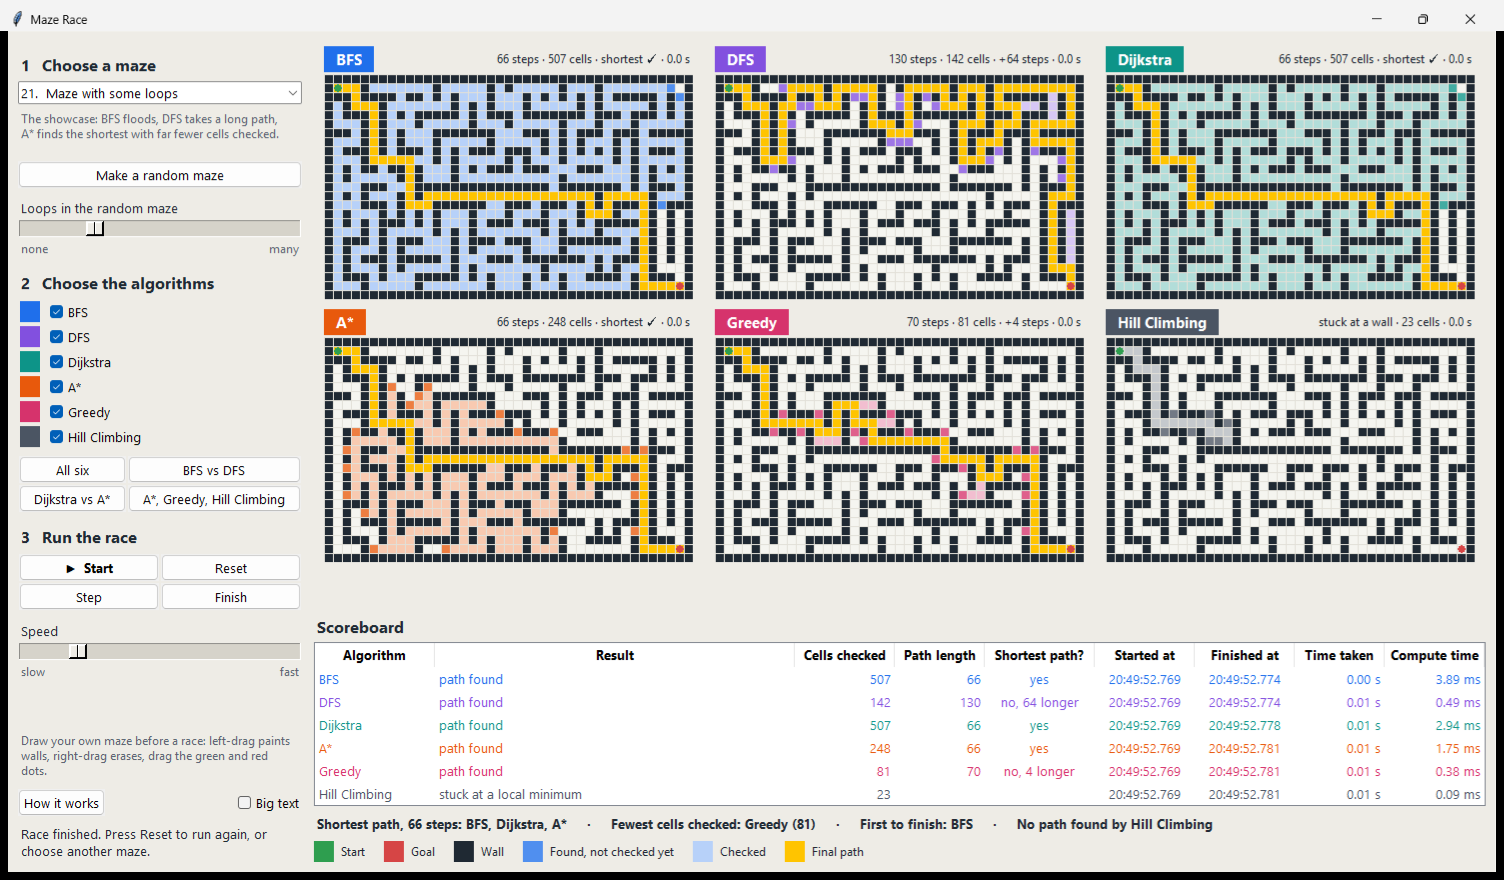
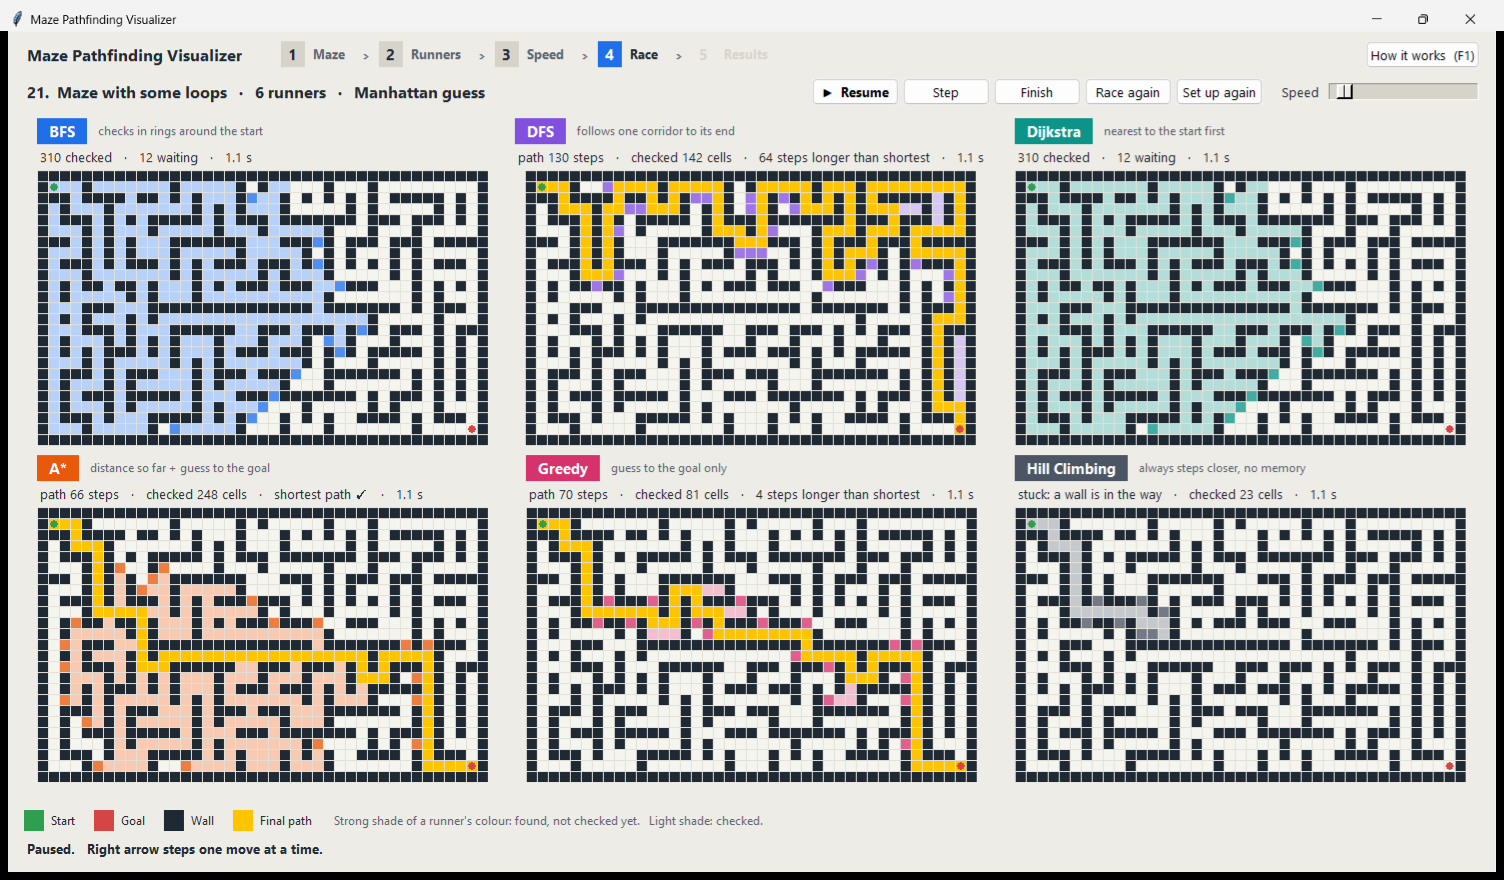
Show the five screens in the README
New screenshots of the maze, runners, race and results screens, a
"Who wins" section that defines a move and the awards, and the showcase
table now lists the finishing order and the moves each runner needed.

diff --git a/README.md b/README.md
@@ -6,62 +6,76 @@
 [![Download for Windows](https://img.shields.io/github/v/release/brishabkc24/maze-pathfinding-visualizer?label=download%20.exe)](https://github.com/brishabkc24/maze-pathfinding-visualizer/releases/latest)
 
 Watch BFS, DFS, Dijkstra, A\*, Greedy best-first and Hill Climbing solve the
-same maze side by side, each in its own colour, with a scoreboard that records
-when every one of them started and finished. Made for showing search
-algorithms to a class: three numbered steps, plain words everywhere, and a
-"How it works" window that explains the rest. Python with Tkinter and nothing
-else: no numpy, no pip install, just `python app.py`.
+same maze side by side, each in its own colour, and find out who won. Made for
+showing search algorithms to a class: five screens that read like an app,
+plain words everywhere, and a "How it works" window that explains the rest.
+Python with Tkinter and nothing else: no numpy, no pip install, just
+`python app.py`.
 
-![All six algorithms after a race on maze 21, Maze with some loops](docs/race.png)
+![The race screen: all six algorithms on maze 21, Maze with some loops](docs/race.png)
 
-## Three steps
+## Five screens
 
-1. **Choose a maze.** 26 numbered mazes, each built to make a point: Empty
-   room, Wall with a door at the top, The trap, Spiral, Dead ends, Big detour,
+1. **Maze.** 26 ready-made mazes, each built to make a point: Empty room,
+   Wall with a door at the top, The trap, Spiral, Dead ends, Big detour,
    Sealed goal, Classic maze, Maze with some loops, Heavy rubble and more. The
-   note under the list says what to look for. Or press *Make a random maze*
-   and set how many loops it should have.
-2. **Choose the algorithms.** Tick any of the six, or use a quick pick such as
-   *BFS vs DFS* or *Dijkstra vs A\**. Each algorithm gets its own panel; fewer
-   panels means bigger cells. The *Guess to the goal* box picks the heuristic
-   that A\*, Greedy and Hill Climbing use: Manhattan, Euclidean or Chebyshev.
-   All three keep A\* on the shortest path; Manhattan is the closest guess on
-   a grid, so A\* checks the fewest cells with it.
-3. **Run the race.** Start, Pause, Step one move at a time, Finish now, Reset,
-   and a speed slider. Every algorithm makes the same number of moves per tick,
-   where a move is one look at one cell, either finding it or checking it, so
-   the comparison is fair.
+   note above the preview says what to look for. Or make a random maze with as
+   many loops as you like, or start from a blank canvas and draw your own:
+   left-drag paints walls, right-drag erases them, and the green start and red
+   goal dots can be dragged.
+2. **Runners.** One card per algorithm: tick it to race, and pick its colour
+   from the chips or from the full colour dialog. Quick picks set up common
+   comparisons such as *BFS vs DFS* or *Dijkstra vs A\**. The *Guess to the
+   goal* box picks the heuristic that A\*, Greedy and Hill Climbing use:
+   Manhattan, Euclidean or Chebyshev. All three keep A\* on the shortest path;
+   Manhattan is the closest guess on a grid, so A\* checks the fewest cells
+   with it.
+3. **Speed.** Slow, Normal, Fast or Very fast, or a fine slider: how many
+   moves every runner makes per tick, where a move is one look at one cell. A
+   countdown from 3 and *Big text* for a projector live here too.
+4. **Race.** Every runner solves the same maze at the same time in its own
+   panel, with live counters. Pause, Step one move at a time, Finish, change
+   the speed, race again, or go back and change the setup.
+5. **Results.** The winner, three more awards (shortest path, fewest cells
+   checked, quickest to compute), the runners that did not finish, a table
+   with every number and clock time, and a chart of the cells each runner
+   checked.
 
-Before a race you can draw your own walls: left-drag paints, right-drag
-erases, and the green start and red goal dots can be dragged.
+| Maze | Runners |
+| --- | --- |
+| ![The maze screen](docs/maze.png) | ![The runners screen](docs/runners.png) |
 
-The scoreboard lists, for each algorithm, the result, cells checked, path
-length, whether that path was the shortest, the clock time it started and
-finished, the time taken, and the compute time spent inside the algorithm
-alone. A summary line names the shortest path, the fewest cells checked and
-the first to finish. *Big text* enlarges everything for a projector, and
-*How it works* opens a page that explains the colours, each algorithm and the
-scoreboard columns.
+![The results screen](docs/results.png)
 
-## What the race shows
+## Who wins
+
+Every runner makes the same number of moves per tick, so the race is fair. A
+move is one look at one cell: finding a new cell (adding it to the frontier)
+or checking one (taking it off). The **winner** is the runner that reaches the
+goal in the fewest moves. That is often not the runner with the best path,
+which is the point: three more awards go to the **shortest path** (compared
+with the BFS path), the **fewest cells checked** and the **quickest to
+compute** (time spent inside the algorithm itself, without the drawing). A
+runner that never reaches the goal **did not finish**: Hill Climbing when a
+wall is in its way, or everyone when the goal is sealed.
 
 On maze 21, *Maze with some loops* (41×25, 15 % of its inner walls removed),
-one run gave:
+with the Manhattan guess, one race gave:
 
-| Algorithm | Result | Cells checked | Path length | Shortest path? |
-| --- | --- | ---: | ---: | --- |
-| BFS | path found | 507 | 66 | yes |
-| DFS | path found | 142 | 130 | no, 64 longer |
-| Dijkstra | path found | 507 | 66 | yes |
-| A\* | path found | 248 | 66 | yes |
-| Greedy | path found | 81 | 70 | no, 4 longer |
-| Hill Climbing | stuck at a local minimum | 23 | | |
+| Place | Runner | Moves to finish | Cells checked | Path length | Shortest path? |
+| --- | --- | ---: | ---: | ---: | --- |
+| 1 | Greedy | 180 | 81 | 70 | no, 4 longer |
+| 2 | DFS | 309 | 142 | 130 | no, 64 longer |
+| 3 | A\* | 521 | 248 | 66 | yes |
+| 4 | BFS | 1018 | 507 | 66 | yes |
+| 5 | Dijkstra | 1018 | 507 | 66 | yes |
+| – | Hill Climbing | stuck at a local minimum | 23 | | |
 
-BFS and Dijkstra flood half the maze but are always optimal. DFS is quick and
-takes twice the path. A\* matches the BFS length while checking half as many
-cells. Greedy checks the fewest cells and pays for it with a slightly longer
-path. Hill Climbing, which has no memory of where else it could go, walks
-until a wall is between it and the goal and stops there.
+Greedy wins the race and pays for it with a slightly longer path. DFS is
+second and takes twice the path. A\* is the first runner home with a shortest
+path, checking half as many cells as BFS and Dijkstra, which flood half the
+maze but are always optimal. Hill Climbing, which has no memory of where else
+it could go, walks until a wall is between it and the goal and stops there.
 
 ## Run it
 
@@ -103,13 +117,16 @@ tag: `git tag -a v1.2 -m "..."`.
   tick (one event, a cell found or a cell checked, is what the app calls a
   move), so the panels stay in lockstep, and records for each one the cells
   explored, the path, the clock times it started and finished, and the time
-  spent inside the generator.
+  spent inside the generator. When everyone is done, `Race.results()` ranks
+  the finishers and hands out the awards.
 - `maze_gen.py` carves a perfect maze by recursive backtracking and then
   *braids* it by removing a fraction of the walls between corridors.
   `templates.py` is the catalogue of ready-made mazes.
-- `app.py` draws one rectangle per cell **once** per panel and only recolors
-  them afterwards. Nothing is deleted and redrawn, which is what keeps the
-  canvas smooth with six panels animating at once.
+- `app.py` is the five screens. The settings live on the `App`; each screen
+  reads them when it is shown, and changing a setting discards the race so
+  that every race is a fair one. The panels draw one rectangle per cell
+  **once** and only recolor them afterwards. Nothing is deleted and redrawn,
+  which is what keeps the canvas smooth with six panels animating at once.
 
 ## Tests
 
@@ -120,10 +137,11 @@ python -m pytest
 The suite checks, over many seeded mazes, that BFS, Dijkstra and A\* agree on
 the shortest length, that every path is contiguous and open, that DFS and
 Greedy are never shorter than BFS, that A\* never explores more than
-Dijkstra, that the generators leave the grid untouched, that the maze
-generator produces a spanning tree and braiding only removes walls, that
-every template is solvable (except the one meant not to be), and that the
-race runner keeps the algorithms in lockstep and records their times.
+Dijkstra, that all three heuristics keep A\* optimal, that the generators
+leave the grid untouched, that the maze generator produces a spanning tree and
+braiding only removes walls, that every template is solvable (except the one
+meant not to be), and that the race runner keeps the algorithms in lockstep,
+records their times and names the right winner.
 
 ## License
 
